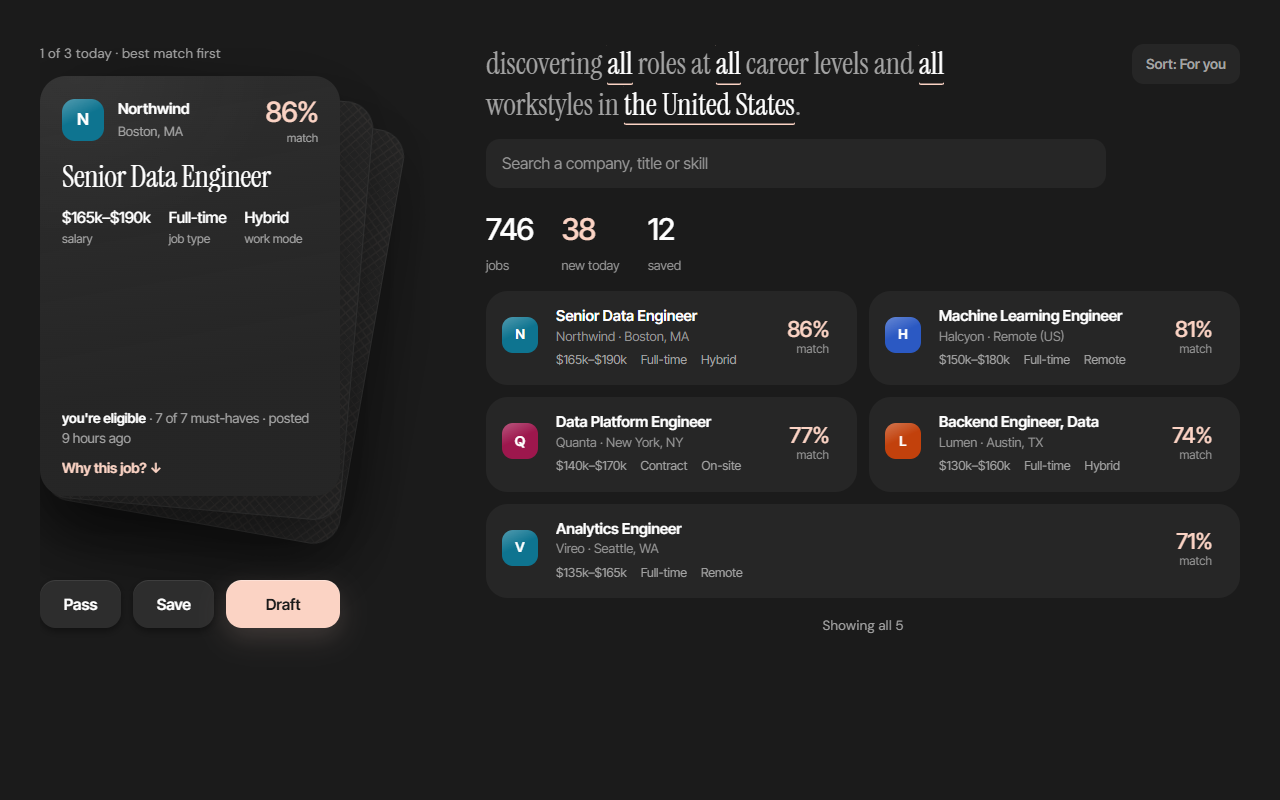
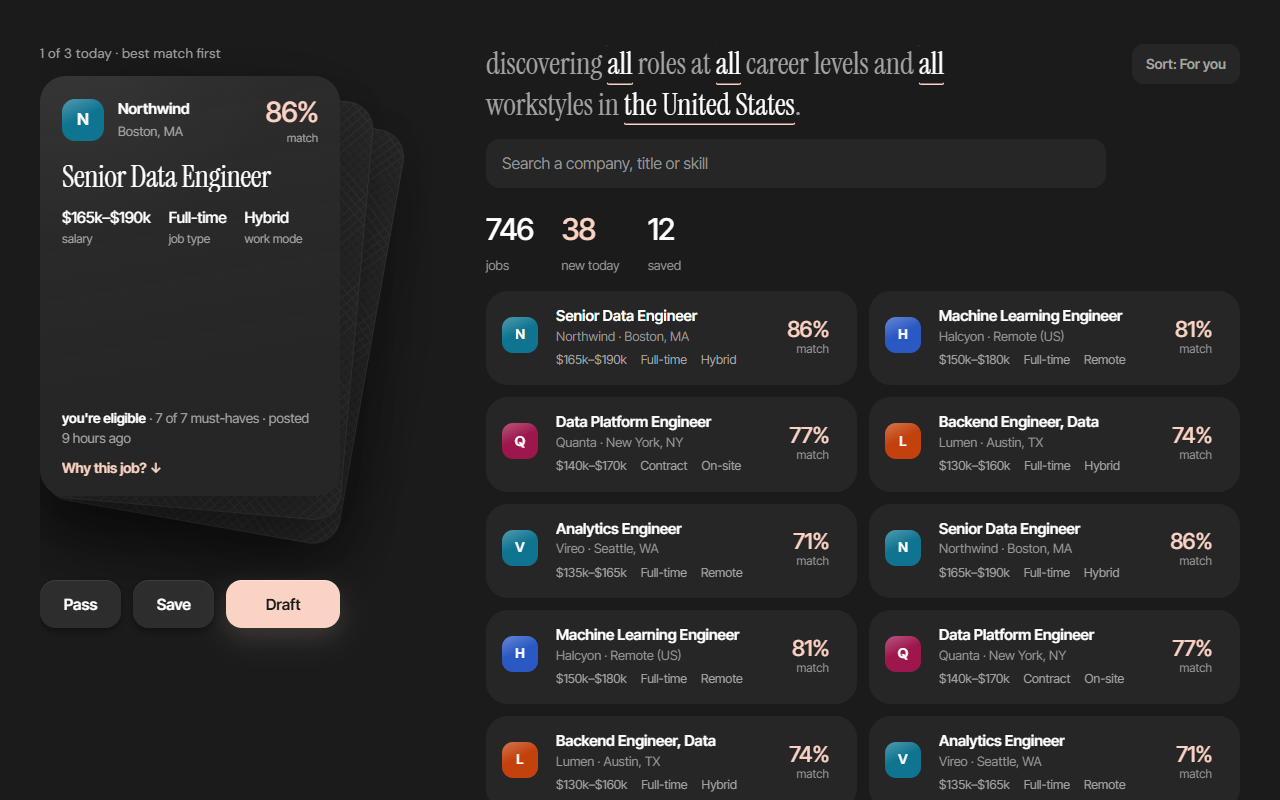
D152 (6) / D153 (1) Home: the posting opens in place of the list
D152 (6) / D153 (1) Home: the posting opens in place of the list — one tree, laid out by CSS; BesideDock is gone

home-sketch.html's .right / .layer, step 6 of D152, and D153 (1)'s cause: the posting panel was placed by JavaScript
offsets refreshed on scroll (BesideDock), so when the filter sentence opened or closed above it the panel kept its old
position ("drawn over the open filter and stranded after closing it").

- JobBoardColumns({ post }): the SAME tree whether a posting is open or not — the list layer folds away (no height,
  faded, inert, still mounted: every bubble survives an open and a close) and the posting layer fades up where it was
  (≤ 350 ms; reduced motion: instant). Nothing is measured, nothing listens to scroll.
- FullHouse.css: while the board holds an open posting it takes Home's WHOLE right column, as the sketch does — every
  other child of the column (the sentence and its panel, the sticky search, the counts) steps aside (:has), and
  comes back on Close.
- The reader's place in the list is returned to on Close; opening never scrolls down, only up to the board. ⚠ Found
  while measuring: by the layout effect the posting's insertion had already folded the list and hidden the header, the
  document was briefly short and the browser had clamped the scroll to 0 — so the place is read during the render that
  opens it (before the commit).
[…]

diff --git a/client/src/panels/JobsPanel.jsx b/client/src/panels/JobsPanel.jsx
@@ -1432,7 +1432,7 @@ export default function JobsPanel({ user, onUserChange, refreshKey = 0, isActive
   // ⭐ D149 (owner 11-03, fullhouse-declutter.html) · THE POSTING OPENS BESIDE THE LIST on a desktop — the sketch's
   // `.fhl` grid (list | posting, 1fr : 1.05fr) with the posting held at the top of the window while the list scrolls,
   // no scrim, the list still live (another row opens in its place). So the JD panel leaves the overlay host there and
-  // is drawn by BesideDock; the ATS and the PDF stay overlay peers (the sketch's ATS is a drawer over a scrim). At
+  // is drawn IN PLACE of the list by the board (D152 (6), JobBoardColumns' post); the ATS and the PDF stay overlay peers (the sketch's ATS is a drawer over a scrim). At
   // ≤ 1000px (the sketch's breakpoint) it is the full-screen overlay as before.
   const besideMode = !!selectedJob && vpWidth > BESIDE_MIN_VIEWPORT;
   const panelDescriptors = useMemo(() => ([
@@ -1440,8 +1440,6 @@ export default function JobsPanel({ user, onUserChange, refreshKey = 0, isActive
     { id: "ats", open: rightPanelOpen,  close: () => setRightPanelOpen(false) },
     { id: "pdf", open: sandboxOpen,     close: () => { setSandboxOpen(false); setSandbox(null); } },
   ]), [selectedJob, besideMode, sandboxOpen, rightPanelOpen, setSelectedJob, clearDeepLink]);
-  // The list's right-hand column, measured by BesideDock (a callback ref, so the dock hears when it mounts).
-  const [besideAnchor, setBesideAnchor] = useState(null);
   const {
     visible: visiblePanels, dockWidth, focusPanel,
     beginResize, resizeBy, endResize,
@@ -4090,7 +4088,10 @@ export default function JobsPanel({ user, onUserChange, refreshKey = 0, isActive
               boardLoading={boardLoading}
               cardTier={effectiveTier}
               containerRef={jobsPanelElementRef}
-              beside={besideMode} besideRef={setBesideAnchor}
+              post={besideMode ? (
+                <JobDetailPanel key="panel-jd" slot={0} fullScreen={false} beside focused={openPanelCount === 0}
+                  closesOnEscape={openPanelCount === 0} resizeMode="none" />
+              ) : null}
             />
           </Panel>
 
@@ -4158,14 +4159,8 @@ export default function JobsPanel({ user, onUserChange, refreshKey = 0, isActive
           )}
         </AnimatePresence>
       </PanelDock>
-      {/* ⭐ D149 · the posting beside the list (desktop): the same JobDetailPanel, outside the overlay host. Escape closes
-          it only while no overlay panel is open (the overlay's most recent one goes first, D39). */}
-      {besideMode && (
-        <BesideDock anchor={besideAnchor}>
-          <JobDetailPanel key="panel-jd" slot={0} fullScreen={false} beside focused={openPanelCount === 0}
-            closesOnEscape={openPanelCount === 0} resizeMode="none" />
-        </BesideDock>
-      )}
+      {/* ⭐ D152 (6): the posting (desktop) is drawn IN PLACE of the list by the board itself (JobBoardColumns' post) —
+          outside the overlay host, Escape closing it only while no overlay panel is open (D39). */}
     </div>
   );
 }
@@ -4256,7 +4251,7 @@ function JobsColumn({ jobs, scraping, scrapeError, onClearScrapeError,
                       curation = null, curateOff = false, onToggleCurate, boardReason = null,
                       emptyReason = null, canRankByFit = true, onAddResume,
                       savedTab = false, importedTab = false, boardLoading = false,
-                      cardTier = 1, containerRef, beside = false, besideRef = null }) {
+                      cardTier = 1, containerRef, post = null }) {
   // ⛔ D45: never while the current view is still loading — "nothing here" when the truth is "not here yet"
   // is silence reported as success.
   const shouldShowEmptyState = jobs.length === 0 && !scraping && !boardLoading;
@@ -4293,9 +4288,9 @@ function JobsColumn({ jobs, scraping, scrapeError, onClearScrapeError,
     // ⛔ D92: NOTHING paints behind the jobs. This box drew a 160° accent tint from its own hard top edge — the
     // "tint behind the cards" and the page read in two parts, split by a line (measured on the running app).
     <div ref={containerRef} style={{ flex:1, display:"flex", flexDirection:"column", overflow:"hidden" }}>
-      {/* ⭐ D149 · the sketch's page column (1240 + 20px gutters) and, with a posting open on a desktop, its two columns:
-          the list | the posting (BesideDock draws the posting over the empty right column, held at the window's top). */}
-      <JobBoardColumns beside={beside} sideRef={besideRef}>
+      {/* ⭐ D152 (6) · Home's board column; with a posting open on a desktop the posting takes the list's place (the list
+          stays mounted, folded away). */}
+      <JobBoardColumns post={post}>
       {/* Rendered OUTSIDE the empty/non-empty branch on purpose: the bridge can narrow a board to a
           short list or to nothing at all, and both need to say so. Left inside the non-empty branch
           it would go silent in the very case where the user has least to go on. */}
@@ -4355,7 +4350,7 @@ function JobsColumn({ jobs, scraping, scrapeError, onClearScrapeError,
               Generate and the posting link are off the card (D1): Apply is the company name (A63), and
               generating lives on the job's detail panel. */}
           {/* ⭐ D152 (5): two columns of resizing bubbles; one while a posting is open beside the list. */}
-          <JobBubbleRows jobs={jobs} columns={beside ? 1 : 2}>
+          <JobBubbleRows jobs={jobs} columns={2}>
           {(job) => {
             const key = job.jobId, g = generated[key];
             // Without a detail panel to select into: a generated résumé opens in its sandbox, else the posting.
@@ -4402,54 +4397,6 @@ function JobsColumn({ jobs, scraping, scrapeError, onClearScrapeError,
 
 /** ⭐ D149 · below this width the opened posting is the full-screen overlay (fullhouse-declutter.html's 1000px rule). */
 const BESIDE_MIN_VIEWPORT = 1000;
-/** The sketch's `.panel{position:sticky;top:84px;max-height:calc(100vh - 110px)}` — the posting's top and height. */
-const BESIDE_TOP = 84;
-
-/**
- * ⭐ D149 · THE POSTING BESIDE THE LIST. The board's wrappers clip (overflow: hidden, for the resizable layout), so a
- * CSS sticky column cannot hold the panel; this draws it FIXED over the list's empty right column instead — its left
- * and width are the column's, its top the column's top until that scrolls above 84px, then 84px (what `sticky` would
- * do), its height the sketch's 100vh − 110. Portalled to body (outside [data-app-shell]) so the board lock that an
- * overlay panel (the ATS) takes never inerts it; beneath the overlay's scrim (Z.NAV − 1), as the sketch's ATS scrim
- * covers its posting. Measured on scroll / resize into the node's style — no re-render per frame.
- */
-function BesideDock({ anchor, children }) {
-  const ref = useRef(null);
-  useEffect(() => {
-    const el = ref.current;
-    if (!el || !anchor) return undefined;
-    let frame = 0;
-    const place = () => {
-      frame = 0;
-      const r = anchor.getBoundingClientRect();
-      el.style.left = `${Math.round(r.left)}px`;
-      el.style.width = `${Math.round(r.width)}px`;
-      el.style.top = `${Math.round(Math.max(BESIDE_TOP, r.top))}px`;
-      el.style.visibility = r.width > 0 ? "visible" : "hidden";
-    };
-    const schedule = () => { if (!frame) frame = requestAnimationFrame(place); };
-    place();
-    window.addEventListener("scroll", schedule, { passive: true, capture: true });
-    window.addEventListener("resize", schedule);
-    const ro = typeof ResizeObserver !== "undefined" ? new ResizeObserver(schedule) : null;
-    ro?.observe(anchor);
-    ro?.observe(document.body);
-    return () => {
-      if (frame) cancelAnimationFrame(frame);
-      window.removeEventListener("scroll", schedule, { capture: true });
-      window.removeEventListener("resize", schedule);
-      ro?.disconnect();
-    };
-  }, [anchor]);
-  return createPortal(
-    <div ref={ref} data-beside-dock="" className="jb-beside"
-      style={{ position: "fixed", zIndex: Z.NAV - 1, height: `calc(100vh - ${BESIDE_TOP + 26}px)`, display: "flex",
-               visibility: anchor ? "visible" : "hidden" }}>
-      {children}
-    </div>,
-    document.body
-  );
-}
 
 // ⭐ D147 · THE END OF THE LIST — "Showing 50 of 746 · scroll for more", and the next page appended when this line comes
 // within 600px of the viewport (an IntersectionObserver, never a scroll listener). The line is also a button, so the

diff --git a/client/src/components/JobBubble.jsx b/client/src/components/JobBubble.jsx
@@ -14,7 +14,7 @@
 //    a touch screen (no hover) it is always shown.
 //
 // The Database panel and the landing page keep JobCard; D1 replaces the JOBS-PAGE card.
-import { useState } from "react";
+import { useLayoutEffect, useRef, useState } from "react";
 import CompanyLogo from "./CompanyLogo.jsx";
 import CompanyViewModal from "./CompanyViewModal.jsx";
 import { jobDetailHref } from "../lib/jobUrl.js";
@@ -154,11 +154,40 @@ export function JobBubbleSkeleton() {
  * ⭐ D149 · the board's page column (`.fhw`: 1240 wide, 20px gutters) and, with a posting open on a desktop, its two
  * columns — the list | an empty right column the posting is drawn over (JobsPanel's BesideDock measures `sideRef`).
  */
-export function JobBoardColumns({ beside = false, sideRef = null, children }) {
+// ⭐ D152 (6) / D153 (1) (owner 11-04: "opening a posting or a card should [not] be flickering with a choppy rerender, it
+// should be smooth … use the space and move content around smoothly"): THE POSTING OPENS IN PLACE OF THE LIST, laid out
+// by CSS — home-sketch.html's `.right` / `.layer`. The tree is the same whether a posting is open or not, so the list's
+// DOM node (and every bubble in it) survives an open and a close: the list layer folds away (inert, no height, faded)
+// and the posting layer fades in where the list was. Nothing is measured and nothing listens to scroll (BesideDock, a
+// panel placed by JS offsets refreshed on scroll — the "panel stranded after closing the filter" — is gone).
+export function JobBoardColumns({ post = null, children }) {
+  const open = !!post;
+  // D153 (1) d153ScrollRestoredOnClose: where the reader was in the list is kept while a posting is open and returned to
+  // on Close; opening never scrolls DOWN — only up to the board, when the reader was below its top (the sketch's swap()).
+  const ref = useRef(null), listY = useRef(null), was = useRef(open);
+  // ⚠ Read where the reader is DURING the render that opens it — before the commit. Measured 11-04: by the layout effect
+  // the posting's insertion has already folded the list and hidden the column's header, the document is briefly short,
+  // and the browser has clamped the scroll to 0 (the restore then returned the reader to the top).
+  if (open && !was.current && listY.current == null && typeof window !== "undefined") listY.current = window.scrollY;
+  useLayoutEffect(() => {
+    if (was.current === open) return;
+    was.current = open;
+    if (open) {
+      const top = (ref.current?.getBoundingClientRect().top ?? 0) + window.scrollY - 20;
+      if (window.scrollY > top) window.scrollTo({ top, behavior: "auto" });
+    } else if (listY.current != null) {
+      // Again on the next frame: the column's header (hidden while the posting was open, FullHouse.css :has) and the
+      // list are back in this commit, but the document can still be measured short until then.
+      const y = listY.current;
+      listY.current = null;
+      window.scrollTo({ top: y, behavior: "auto" });
+      requestAnimationFrame(() => { if (Math.abs(window.scrollY - y) > 1) window.scrollTo({ top: y, behavior: "auto" }); });
+    }
+  }, [open]);
   return (
-    <div className="jb-board" data-beside={beside ? "true" : "false"}>
-      <div className="jb-board__list">{children}</div>
-      {beside && <div className="jb-board__side" ref={sideRef} aria-hidden="true" data-beside-slot="" />}
+    <div className="jb-board" ref={ref} data-post-open={open ? "true" : "false"}>
+      <div className="jb-board__list" data-out={open ? "true" : "false"} {...(open ? { inert: "", "aria-hidden": "true" } : null)}>{children}</div>
+      {open && <div className="jb-board__post" data-board-post="">{post}</div>}
     </div>
   );
 }

diff --git a/test/fidelityFullHouse.test.js b/test/fidelityFullHouse.test.js
@@ -40,11 +40,14 @@ test("fidelity · Full House + the posting (fullhouse-declutter.html): page, hea
     // ⭐ D152 (5), changed on purpose: where the list is two columns (a phone here — its posting is the screen, not beside
     // the list) a row is Home's bubble, corner 22, padding 16; beside an open posting (the computer) the one column keeps
     // the row's 20 / 14 16.
-    const bubble = size === "phone";
+    // ⭐ D152 (6): the list keeps its pairs at both widths now (the posting opens in place of it, not beside it).
+    const bubble = true;
     assert.deepEqual([d.row.bg, d.row.radius, d.row.border, d.row.shadow, d.row.padding],
       [CARD, bubble ? "22px" : "20px", "0px", "none", bubble ? "16px" : "14px 16px"],
       `${size}: a row is the card, no border, no shadow`);
-    assert.equal(d.row.gap, bubble ? 12 : 8, `${size}: rows 8px apart (Home's pairs 12, D152 (5))`);
+    // Pairs 12 apart (D152 (5)) — measured on a phone: on a computer the list is folded away while the posting is open
+    // in its place (D152 (6)), so its rows have no gap to measure there.
+    if (size === "phone") assert.equal(d.row.gap, 12, `${size}: pairs 12px apart`);
     assert.match(d.row.outline, /solid rgb\(251, 211, 196\)$/, `${size}: the open row is outlined in the accent`);
     assert.match(d.row.title.family, UI); assert.deepEqual([d.row.title.size, d.row.title.weight, d.row.title.color], ["15px", "600", INK]);
     assert.deepEqual([d.row.sub.size], ["13px"]); assert.deepEqual([d.row.meta.size, d.row.meta.color], ["12.5px", BODY]);
@@ -80,15 +83,13 @@ test("fidelity · Full House + the posting (fullhouse-declutter.html): page, hea
     near(b.eyebrow.top - (b.facts.top + b.facts.height), 20, `${size}: 20px under the facts box`);
     near(b.actions.top - (b.body.top + b.body.height), 18, `${size}: the actions 18px under the posting`);
   }
-  // Desktop: the posting BESIDE the list. ⭐ D152 (1), changed on purpose: both now sit inside Home's board column
-  // (486–1240 at 1280: the deck's 390 + the 56 gap after the 40 padding) — never over the deck. The sketch's next step
-  // (D152 (6) / D153 (1): the posting opens IN PLACE of the list, cross-fading) replaces this layout.
+  // Desktop. ⭐ D152 (6) / D153 (1), changed on purpose (11-04): the posting opens IN PLACE of the list — it takes Home's
+  // whole board column (486–1240 at 1280: the deck's 390 + the 56 gap after the 40 padding), never over the deck, and is
+  // as tall as its content (it scrolls with the page, as the list did); the list stays mounted, folded away
+  // (test/d152Home.test.js walks the open and the close).
   const D = out.desktop;
-  assert.ok(D.row.left >= 486 && D.panel.left + D.panel.width <= 1240, `the list and the posting stay in the board column (${D.row.left}, ${D.panel.left + D.panel.width})`);
-  assert.ok(D.panel.left >= D.row.left + D.row.width, "the posting beside the list, not over it");
-  assert.deepEqual([D.panel.radius, D.panel.padding], ["28px", "24px 24px 20px"], "the posting column");
-  assert.equal(D.panel.top, D.row.top, "the posting's top is the first row's");
-  assert.equal(D.panel.height, 690, "the sketch's calc(100vh - 110px)");
+  assert.deepEqual([D.panel.left, D.panel.width], [486, 754], "the posting takes the board column");
+  assert.deepEqual([D.panel.radius, D.panel.padding], ["28px", "24px 24px 20px"], "the posting's card");
   // Phone: the posting is the screen.
   const P = out.phone.panel;
   assert.deepEqual([P.left, P.top, P.width, P.height, P.radius, P.padding], [0, 0, 390, 844, "0px", "70px 20px 30px"]);

diff --git a/test/d152Home.test.js b/test/d152Home.test.js
@@ -103,6 +103,25 @@ test("d152DockLeftWithLogo / d153DockPushes / d152DockSlidesFromLeftEdge (real C
   assert.ok(P.focusW[0] > P.restW[0] && P.focusW[1] < P.restW[1], `the focused bubble grows and its neighbour gives way (${P.focusW})`);
   assert.ok(Math.abs(P.focusW[0] + P.focusW[1] - P.restW[0] - P.restW[1]) <= 1, "within the same line");
   assert.equal(out.phone.pairs.restW[0], out.phone.pairs.focusW[0], "a phone stacks the pair — nothing to give way to");
+  // ⭐ D152 (6) / D153 (1): the posting opens IN PLACE of the list on a computer (a phone keeps the full-screen posting).
+  const O = out.desktop.opened;
+  assert.ok(O.post && O.inBoard, "d152OnePostingPanelEverywhere — the posting takes the board column");
+  assert.equal(O.listOut, "true"); assert.equal(O.listInert, true, "the folded list is out of the keyboard's reach");
+  assert.equal(O.coversDeck, false, "d153NoOverlapOpenFilter — the posting never covers the deck");
+  for (const [size, d] of Object.entries(out)) {
+    assert.equal(d.closed.sameListNode, true, `${size}: d153OpenPostingNoRemount — the list's node survives an open / close`);
+    assert.equal(d.closed.post, false, `${size}: closed`);
+    assert.equal(d.closed.yAfter, d.closed.yBefore, `${size}: d153ScrollRestoredOnClose (${d.closed.yBefore} → ${d.closed.yAfter})`);
+  }
+});
+
+test("d153 (1) · no panel placed by JS offsets: BesideDock is gone; the in-place layers and the column swap are CSS", () => {
+  const PANEL = read("client/src/panels/JobsPanel.jsx");
+  const BUB = read("client/src/components/JobBubble.jsx");
+  assert.doesNotMatch(PANEL, /BesideDock|BESIDE_TOP|addEventListener\("scroll"/, "d153NoScrollPositionListeners");
+  assert.match(BUB, /export function JobBoardColumns\(\{ post = null, children \}\)/);
+  assert.match(BUB, /<div className="jb-board__list" data-out=\{open \? "true" : "false"\}/, "one tree, open or not");
+  assert.match(CSS, /\.home__board:has\(\[data-board-post\]\) > :not\(:has\(\[data-board-post\]\)\) \{ display: none; \}/);
 });
 
 test("d152 (5) · the bubbles' source: pairs from JobBubbleRows, one column beside an open posting, no ATS square", () => {
@@ -111,7 +130,7 @@ test("d152 (5) · the bubbles' source: pairs from JobBubbleRows, one column besi
   const CSSB = read("client/src/components/JobBubble.css");
   assert.match(BUB, /export function JobBubbleRows\(\{ jobs, children, columns = 2 \}\)/);
   assert.doesNotMatch(BUB, /jb__sq--ats|onAts/, "the old ATS square and its handler are gone");
-  assert.match(PANEL, /<JobBubbleRows jobs=\{jobs\} columns=\{beside \? 1 : 2\}>/);
+  assert.match(PANEL, /<JobBubbleRows jobs=\{jobs\} columns=\{2\}>/);
   assert.match(CSSB, /\.jb-pair:hover \.jb \{ flex-grow: \.75; \}\n\.jb-pair \.jb:hover, \.jb-pair \.jb:focus-within \{ flex-grow: 1\.5;/);
 });
 

diff --git a/client/src/components/JobBubble.css b/client/src/components/JobBubble.css
@@ -136,10 +136,13 @@ a.jb__company:hover, a.jb__company:focus-visible { text-decoration: underline; }
  * (ATS · Save · Draft) still opens on hover / focus. The page column is the sketch's: 1240 wide with 20px gutters,
  * and with a posting open on a desktop, two columns — the list | the posting (1fr : 1.05fr, 18px apart). */
 .jb-board { box-sizing: border-box; width: 100%; max-width: 1240px; margin: 0 auto; padding: 0 20px; }
-.jb-board[data-beside="true"] { display: grid; grid-template-columns: minmax(0, 1fr) minmax(0, 1.05fr); gap: 18px; align-items: start; }
-.jb-board[data-beside="false"] .jb-board__list { max-width: 760px; }
+/* ⭐ D152 (6) / D153 (1) · the posting opens IN PLACE of the list (home-sketch.html's .layer): the list layer folds away —
+   no height, faded, inert, still mounted — and the posting fades up where it was (≤ 350 ms; reduced motion: instant). */
+.jb-board__list[data-out="true"] { height: 0; overflow: hidden; opacity: 0; pointer-events: none; }
+.jb-board__post { animation: jb-post-in .35s cubic-bezier(.2, .9, .3, 1) both; }
+@keyframes jb-post-in { from { opacity: 0; transform: translateY(10px); } to { opacity: 1; transform: none; } }
+@media (prefers-reduced-motion: reduce) { .jb-board__post { animation: none; } }
 .jb-board__list { min-width: 0; }
-.jb-board__side { min-height: 1px; margin-top: 4px; }   /* the list scroller's 4px top padding (PullToRefresh): the posting's top is the first row's */
 .jb-rows { gap: 8px; padding: 0; }
 .jb {
   flex: none; gap: 12px; padding: 14px 16px; border-radius: 20px; background: var(--c-surface-solid); box-shadow: none;

diff --git a/client/src/components/FullHouse.css b/client/src/components/FullHouse.css
@@ -339,6 +339,10 @@
 /* D152 (4) / D153 (1): the dock pushes the page — while it is out (AppNav sets data-dock-open on <html>) Home's left
    padding makes room for it (the sketch's body.docked .home), so it never covers the deck or the sentence. */
 :root[data-dock-open="true"] .home { padding-left: 268px; }
+/* ⭐ D152 (6) · the opened posting takes the WHOLE right column (home-sketch.html: the .pp layer in place of #list, the
+   sentence and search included) — every other child of the board column steps aside while the board holds an open
+   posting, and comes back on Close. CSS alone (:has), nothing measured. */
+.home__board:has([data-board-post]) > :not(:has([data-board-post])) { display: none; }
 .home__deck { position: sticky; top: calc(var(--app-chrome-height, 74px) + 44px); align-self: start; width: 390px; }
 /* With the dock as the navigation there is nothing in the chrome strip (D152 (4): no corner mark), so Home starts at the
    sketch's 44 px from the top of the screen, not 44 under an empty strip. The Menu keeps its button there, and the strip. */

diff --git a/test/panelPeers.test.js b/test/panelPeers.test.js
@@ -144,8 +144,9 @@ test("the PDF and ATS surfaces are no longer inline columns", () => {
   // Exactly one mount of each panel type.
   assert.equal((jobs.match(/<SandboxPanel\b/g) || []).length, 1);
   assert.equal((jobs.match(/<AtsReportPanel\b/g) || []).length, 1);
-  // D149 (11-03) changed this on purpose: the posting has a second mount — BESIDE the list on a desktop (BesideDock,
-  // fullhouse-declutter.html), where it leaves the overlay host; never both at once (the host's jd is closed then).
+  // D149 (11-03) changed this on purpose: the posting has a second mount on a desktop, where it leaves the overlay host;
+  // never both at once (the host's jd is closed then). ⭐ D152 (6): that mount is IN PLACE of the list (JobBoardColumns'
+  // post), no longer BesideDock.
   assert.equal((jobs.match(/<JobDetailPanel\b/g) || []).length, 2);
   assert.match(jobs, /\{ id: "jd",  open: !!selectedJob && !besideMode,/);
 });

diff --git a/test/panelLayoutDefaults.test.js b/test/panelLayoutDefaults.test.js
@@ -139,7 +139,8 @@ test("panels tile inside the dock, not against the viewport", () => {
   // Each panel is a FLEX CHILD of the dock. This is the line that makes the tiling internal: a
   // panel has no relationship with the viewport, only with its siblings, so it cannot lay out
   // against the board or be shoved past the screen edge.
-  // D149 (11-03) changed this on purpose: `fill` — the posting beside the list fills its column (BesideDock).
+  // D149 (11-03) changed this on purpose: `fill` — the posting on a desktop fills its container (⭐ D152 (6): in place of
+  // the list, whose container takes the posting's own height).
   assert.match(shell, /flex: fullScreen \|\| fill \? "1 1 auto" : `0 0 \$\{Math\.round\(width\)\}px`/);
   assert.ok(!/right: rightOffset/.test(shell),
     "a panel is anchoring itself to the viewport again instead of tiling inside the dock");

diff --git a/test/boardListingLayout.test.js b/test/boardListingLayout.test.js
@@ -115,7 +115,7 @@ test("D1 (10-03): the listings are bubble ROWS of 2/3/4 — the two-column TileG
   // module, and the rows are ONE column now (jobBubbleD1) — the TileGrid stays superseded.
   assert.match(jobsPanel, /import JobBubble, \{ JobBubbleRows(, JobBubbleSkeleton)?(, JobBoardColumns)? \} from "\.\.\/components\/JobBubble\.jsx";/);
   // ⭐ D152 (5), changed on purpose: two columns of resizing bubbles again (home-sketch.html), one beside an open posting.
-  assert.match(jobsPanel, /<JobBubbleRows jobs=\{jobs\} columns=\{beside \? 1 : 2\}>/);
+  assert.match(jobsPanel, /<JobBubbleRows jobs=\{jobs\} columns=\{2\}>/);
   assert.doesNotMatch(jobsPanel, /<TileGrid/);
 });
 

diff --git a/test/jobBubbleD1.test.js b/test/jobBubbleD1.test.js
@@ -97,7 +97,7 @@ test("⛔ the logo face is SELF-HOSTED — no third-party font request", () => {
 
 test("the board renders bubbles in rows; the Database panel keeps JobCard", () => {
   // ⭐ D152 (5), changed on purpose: two columns (pairs), one beside an open posting.
-  assert.match(panel, /<JobBubbleRows jobs=\{jobs\} columns=\{beside \? 1 : 2\}>/);
+  assert.match(panel, /<JobBubbleRows jobs=\{jobs\} columns=\{2\}>/);
   assert.doesNotMatch(panel, /<JobCard\b/);
   assert.match(read("client/src/panels/DatabasePanel.jsx"), /<JobCard/);
   // D149 (11-03): one column — see the first test.
